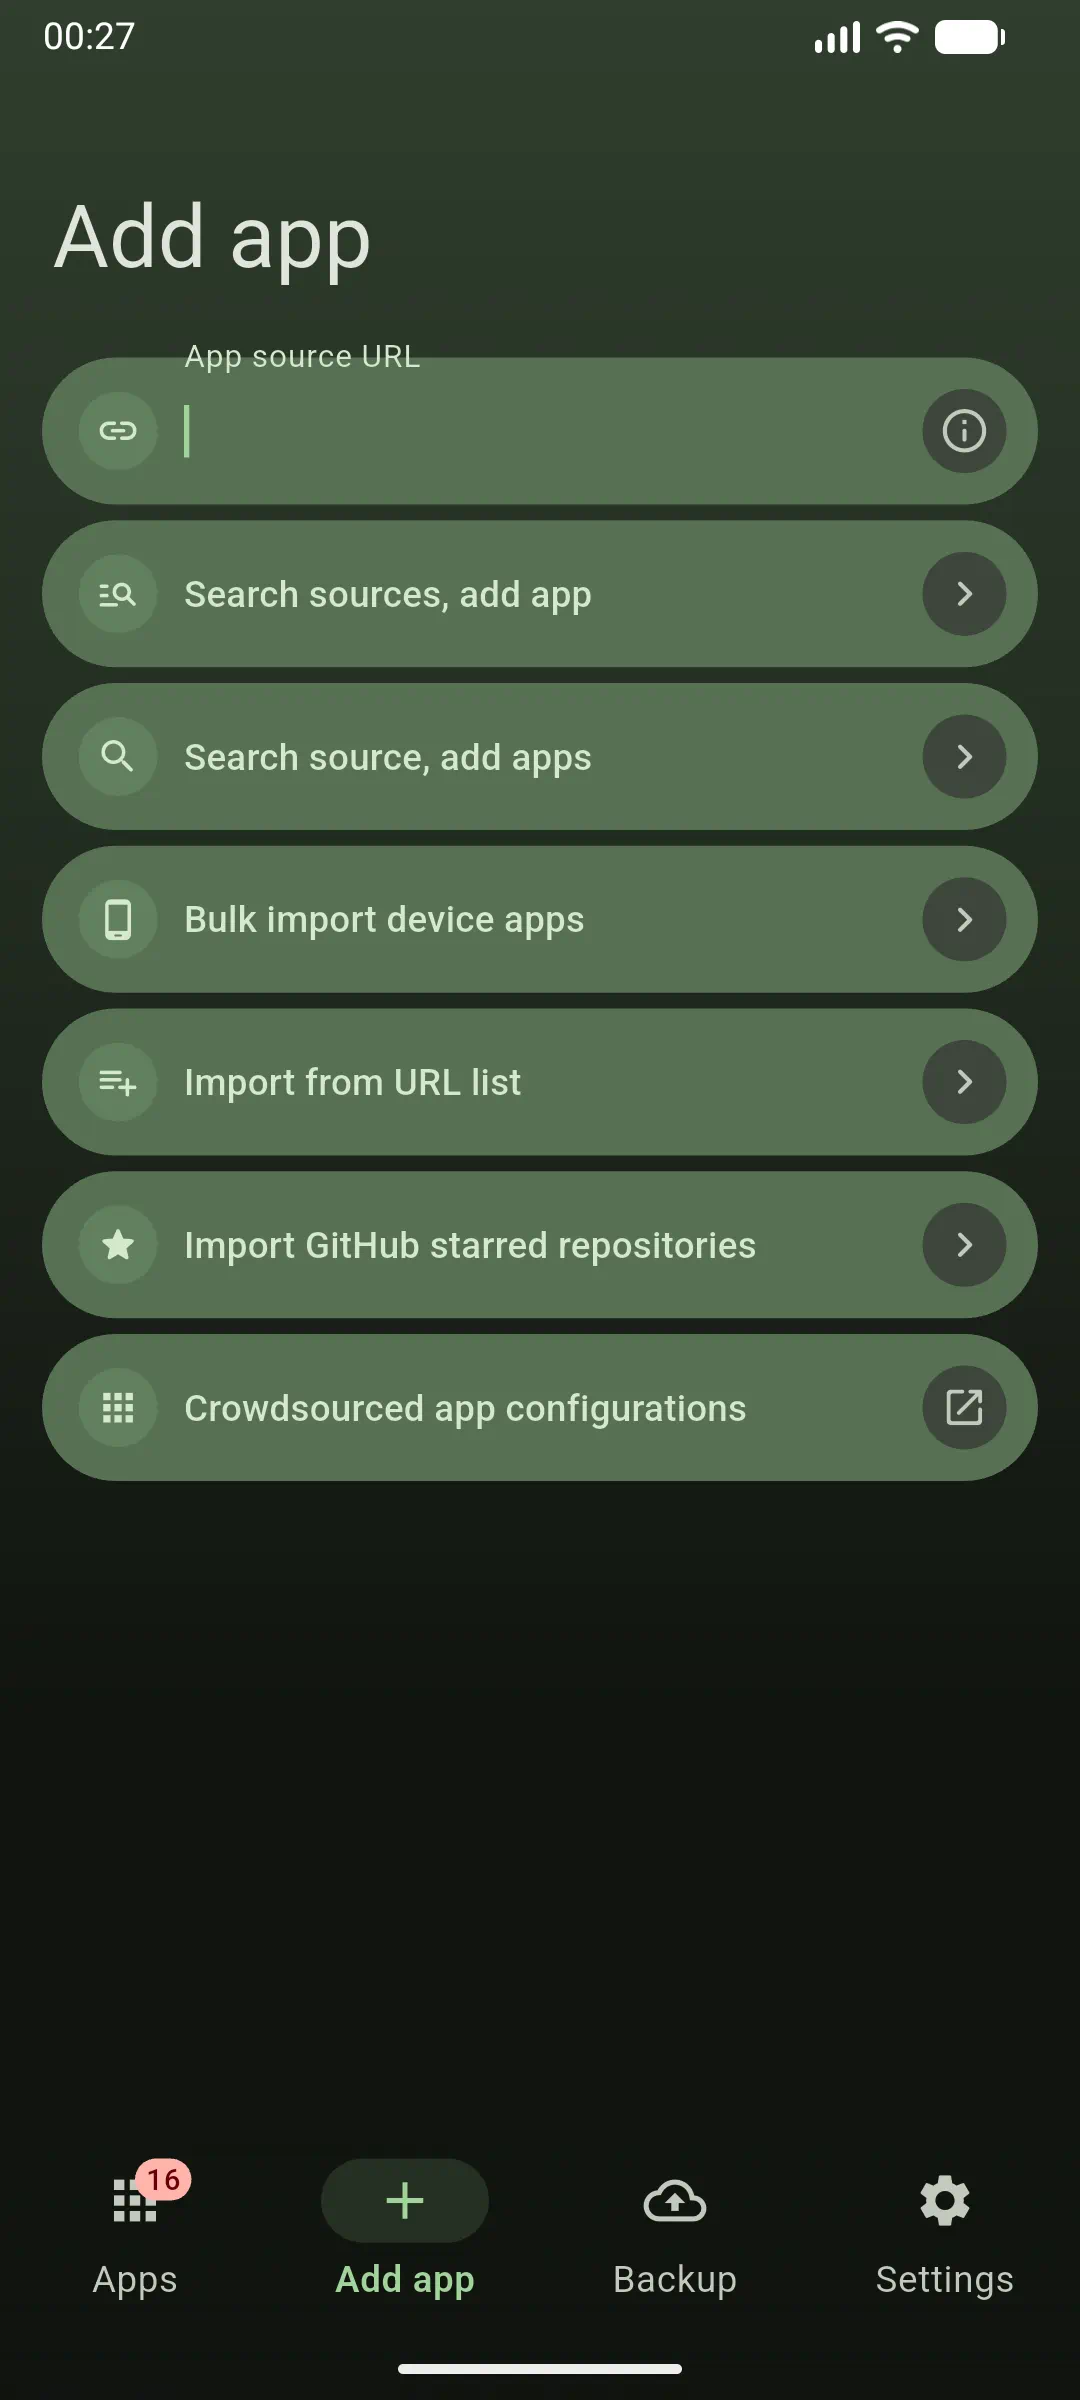
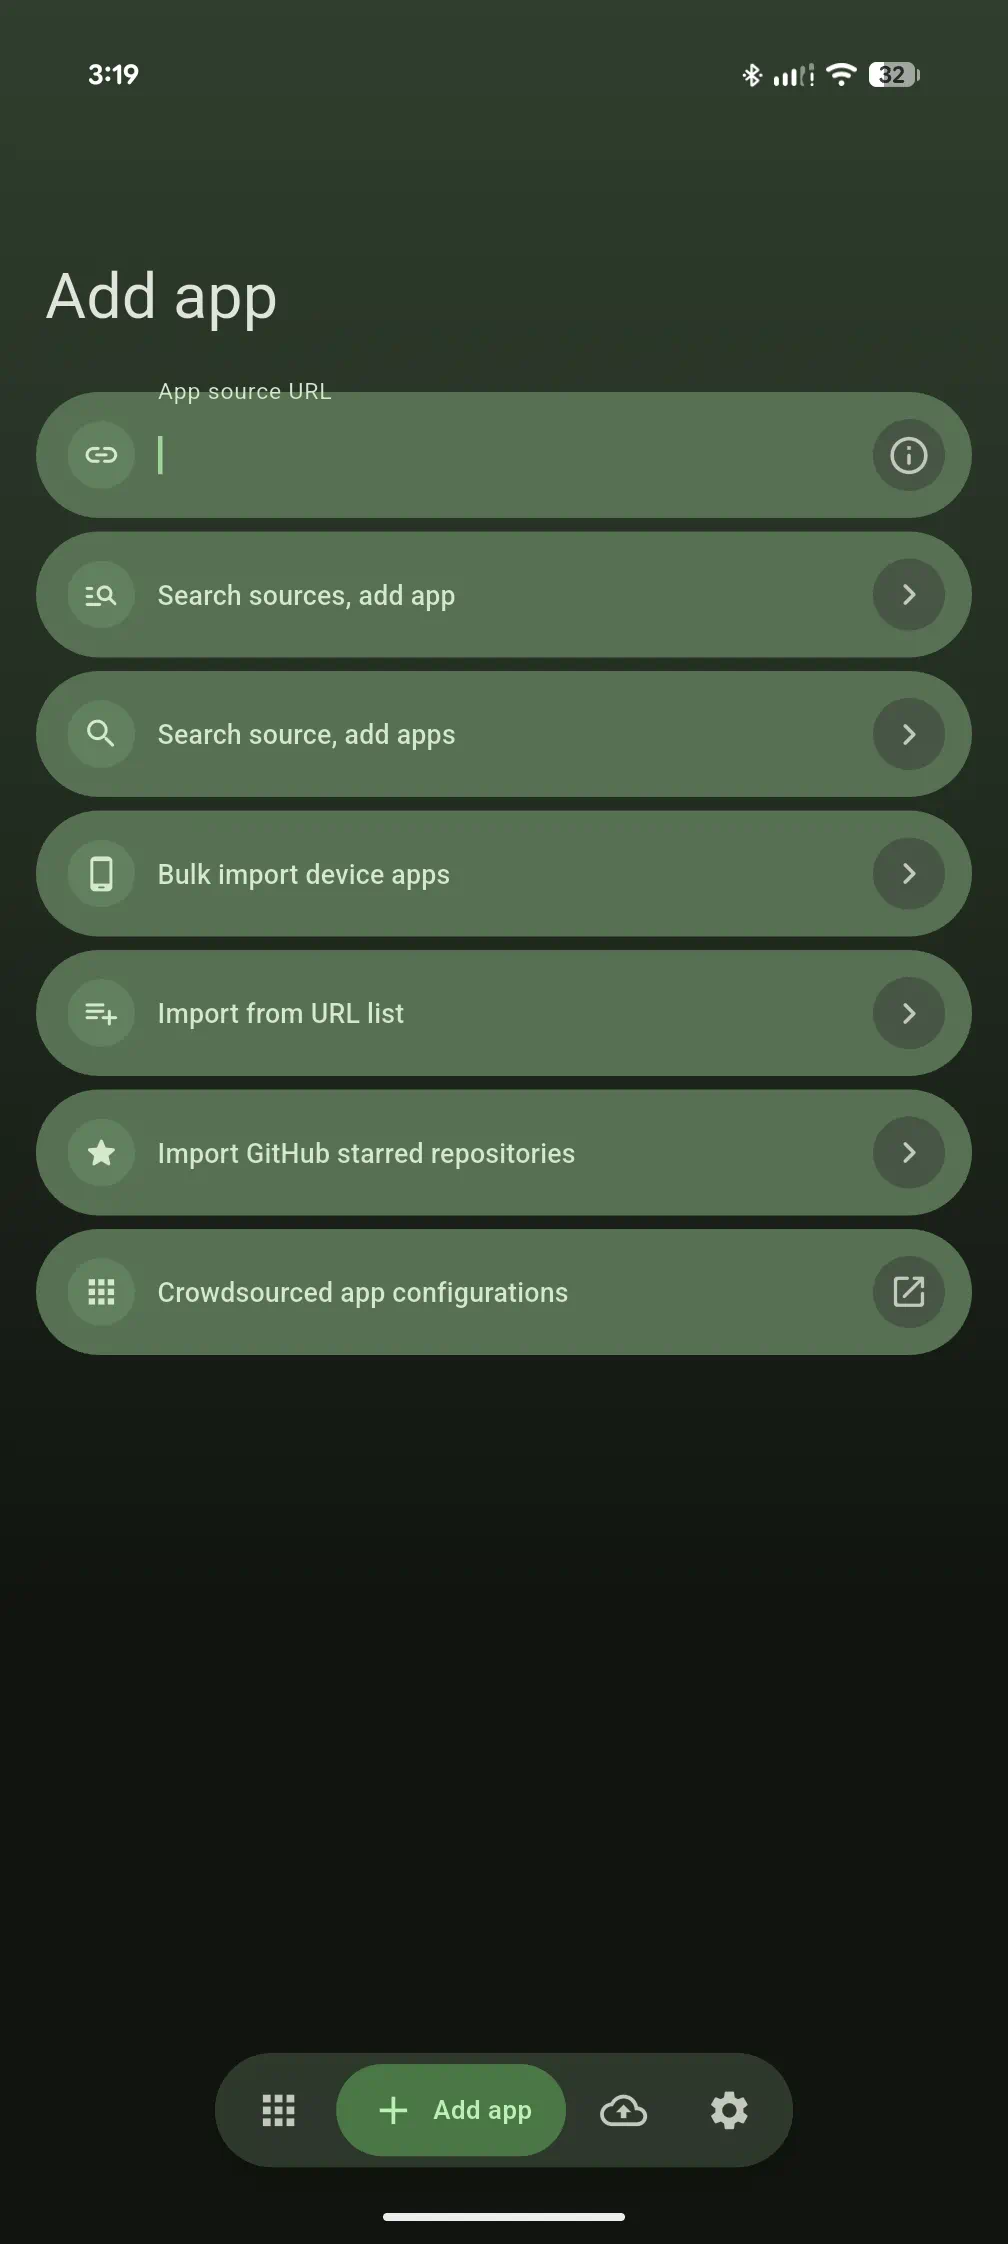
Up-to-date diff doc and screenshots after nav pill

diff --git a/docs/Difference_with_Obtainium.md b/docs/Difference_with_Obtainium.md
@@ -34,7 +34,7 @@
     <tr>
         <td>Navigation</td>
         <td>• No navigation bar or tabs. You have to return to homepage to go anywhere else.<br>• Groups can be collapsed individually (no collapse-all)<br>• Expanded/collapsed state is reset on every restart</td>
-        <td>• Pinned navigation bar - switch to any tab from any tab<br>• Groups can be collapsed individually or collapse-all<br>• Every expanded/collapsed state is always remembered</td>
+        <td>• Floating navigation pill - switch to any tab from any tab<br>• Groups can be collapsed individually or collapse-all<br>• Every expanded/collapsed state is always remembered</td>
     </tr>
     <tr>
         <td>In-list live search</td>
@@ -48,9 +48,14 @@
     </tr>
     <tr>
         <td>Ease of Update</td>
-        <td>• Button at center of app row, can misalign per row.<br>• Update-all button at the top of apps list<br>• Updates scattered across individual groups</td>
-        <td>• Button at right end, in perfect alignment<br>• Update-all button at the bottom, within easy thumb reach<br>• Unified Updates group at the top</td>
+        <td>• Button at center of app row, can misalign per row.<br>• Update-all button at the top of apps list<br>• Updates scattered across individual groups<br>• Can't quickly say how many updates are available<br>• OOTB version comparison seems to be buggy.</td>
+        <td>• Button at right end, in perfect alignment<br>• Update-all button at the bottom, within easy thumb reach<br>• Unified Updates group at the top<br>• Upate button shows count of available upates<br>• OOTB version comparison is smarter.</td>
     </tr>
+    <tr>
+        <td>Bulk Update</td>
+        <td>• Eligible apps listed in centered, narrow panel<br>• Long flat list includes updates, non-installed apps, track-only apps, with no collapse option. <br>• A single "Select all" checkbox that select all 3 types.</td>
+        <td>• Eligible apps listed in full width bottom sheet<br>• All 3 types are collapsible, latter two collapsed by default <br>• Each of the 3 types have their own "Select all" checkbox</td>
+    </tr>    
     <tr>
         <td>Category Visibility</td>
         <td>• Thin, side-by-side color strips.<br>• Multiple categories overflow and blend together, making them difficult to distinguish.</td>
@@ -71,6 +76,18 @@
         <td width="33%" align="center" valign="top">
             <img src="../assets/screenshots/Category_Badges.webp" alt="ObtainX category chips shown on app rows" width="300" /><br />
             <strong>ObtainX</strong>
+        </td>
+    </tr>
+    <tr>
+        <td width="33%" align="center" valign="top">
+            <img src="../assets/screenshots/Compare_Bulk_Update_1.webp" alt="Obtainium bulk update dialog" width="300" /><br />
+            <strong>Obtainium - wrong updates</strong>
+        </td>
+        <td width="33%" align="center" valign="top">
+            <img src="../assets/screenshots/Compare_Bulk_Update_2.webp" alt="Obtainium bulk update dialog" width="300" /><br />
+            <strong>ObtainX - only valid updates</strong>
+        </td>
+        <td width="33%" align="center" valign="top">
         </td>
     </tr>
 </table>
